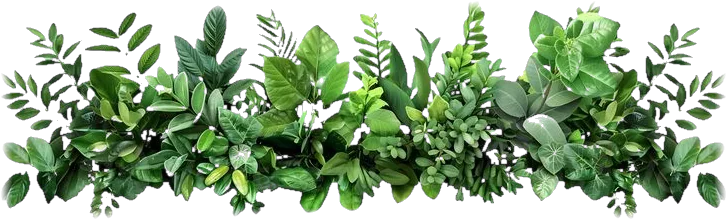
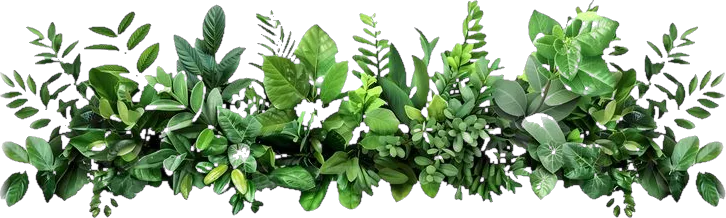
Убрана подпись про фото в подвале, зелень без дымки и с мягким нижним краем

diff --git a/index.html b/index.html
@@ -19,7 +19,7 @@
 <link rel="icon" href="img/icon.svg" type="image/svg+xml">
 <link rel="preload" href="fonts/alumni-cyrillic.woff2" as="font" type="font/woff2" crossorigin>
 <link rel="preload" href="fonts/golos-cyrillic.woff2" as="font" type="font/woff2" crossorigin>
-<link rel="stylesheet" href="styles.css?v=60">
+<link rel="stylesheet" href="styles.css?v=61">
 </head>
 <body>
 <a class="skip" href="#menu">К меню</a>
@@ -407,10 +407,9 @@
   <div class="wrap foot__row">
     <p class="foot__sign" lang="vi">Hẹn gặp lại!</p>
     <p>Eggspresso, вьетнамская кофейня. Ташкент, Яхьё Гулямова,&nbsp;38.</p>
-    <p class="foot__credit">Часть фото и&nbsp;видео: Pexels (бесплатная лицензия).</p>
   </div>
 </footer>
 
-<script src="script.js?v=60"></script>
+<script src="script.js?v=61"></script>
 </body>
 </html>

diff --git a/styles.css b/styles.css
@@ -157,7 +157,7 @@ section { position: relative; overflow: clip; isolation: isolate; }
 .recipe .ghost, .guests .ghost { right: auto; left: 3vw; text-align: left; }
 .leaf { position: absolute; width: clamp(170px, 19vw, 320px); height: auto; filter: drop-shadow(0 18px 22px rgba(15, 42, 29, .3)); transform-origin: 50% 0; }
 .leaf[src*="cherry"] { width: clamp(140px, 14vw, 230px); }
-.leaf[src*="greens"] { width: clamp(280px, 36vw, 560px); }
+.leaf[src*="greens"] { width: clamp(280px, 36vw, 560px); -webkit-mask-image: linear-gradient(#000 45%, transparent 92%); mask-image: linear-gradient(#000 45%, transparent 92%); filter: none; }
 .leaf--tl { left: -2vw; top: 10px; transform: rotate(-12deg); }
 .leaf--tr { right: -3vw; top: -20px; transform: scaleX(-1) rotate(-25deg); }
 .leaf--l { left: -6vw; top: 40%; transform: rotate(18deg); }
